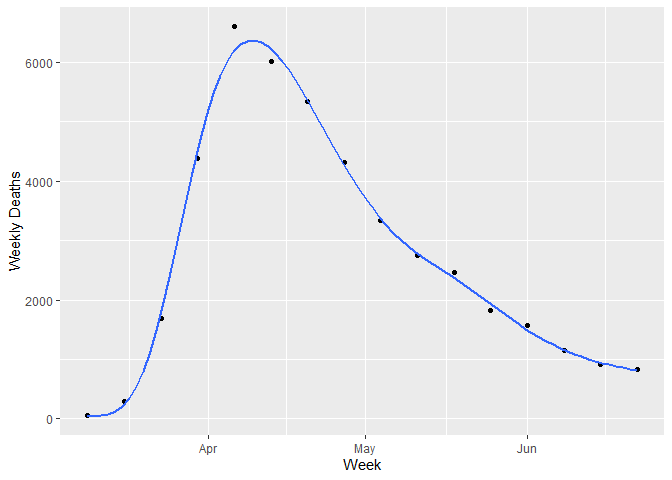
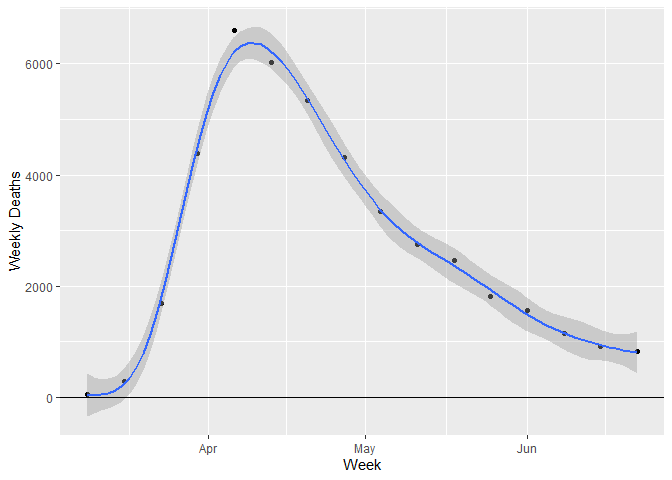
latest data

diff --git a/README.md b/README.md
@@ -2,7 +2,7 @@ Using ggplot2 to visualise Covid-19 deaths the UK
 ================
 Andi (<almost@gmail.com>,
 @[inductivestep](https://twitter.com/InductiveStep))
-02 July 2020
+03 July 2020
 
 This script shows how to use ggplot2, with the help of some other
 tidyverse tools, to plot UK Covid-19 deaths data.
@@ -228,7 +228,9 @@ Mon
 ### Plot
 
 First, plot number of deaths reported every day, colouring points by day
-of week.
+of week. I’ve also added straight lines between the points (it’s harder
+to spot the patterns without it) and a generalized additive model (GAM)
+smoother.
 
 ``` r
 death2 %>%
@@ -236,31 +238,23 @@ death2 %>%
              y = `UK Daily count of deaths in all settings`)) + 
   scale_colour_hue() + # Day of week is ordered; this uses a qual palette
   geom_line(color = "grey") +
-  geom_point(aes(color=`Day of week`))
+  geom_point(aes(color=`Day of week`)) +
+  geom_hline(yintercept=0) +
+  geom_smooth(method = "gam",
+              formula = y ~ s(x, bs = "cr"),
+              se = F,
+              col = "darkgrey")
 ```
 
 ![](README_files/figure-gfm/unnamed-chunk-7-1.png)<!-- -->
-
-We can also add separate lines for each day of the week like this:
-
-``` r
-death2 %>%
-  ggplot(aes(x = `Publicly confirmed as deceased as of 5pm this day`,
-             y = `UK Daily count of deaths in all settings`,
-             color = `Day of week`)) + 
-  geom_line() +
-  geom_point() +
-  scale_colour_hue() 
-```
-
-![](README_files/figure-gfm/unnamed-chunk-8-1.png)<!-- -->
 
 Deaths are reported when paperwork is filed, rather than time of death,
 which apparently explains the dips on Saturday and Sunday.
 
 ### Aggregrate by week
 
-One way to “smooth” the day-to-day variation in data is to sum by week:
+One way to “smooth” the day-to-day variation in data is to aggregate the
+numbers by week:
 
 ``` r
 death_week <- death2 %>%
@@ -269,8 +263,8 @@ death_week <- death2 %>%
             Days = n())
 ```
 
-Now plot, with a generalized additive model (GAM) smoother, selecting
-only weeks where there were data for all seven days.
+Now plot, with GAM smoother, selecting only weeks where there were data
+for all seven days.
 
 These week(s) are excluded:
 
@@ -344,13 +338,13 @@ Days
 
 <td style="text-align:right;">
 
-331
+557
 
 </td>
 
 <td style="text-align:right;">
 
-2
+4
 
 </td>
 
@@ -365,10 +359,11 @@ death_week %>%
   filter(Days == 7) %>%
   ggplot(aes(x = Week, y = `Weekly Deaths`)) +
   geom_point() +
-  geom_smooth(method = "gam", formula = y ~ s(x, bs = "tp"), se = F) 
+  geom_smooth(method = "gam", formula = y ~ s(x, bs = "cs"), se = T) +
+  geom_hline(yintercept=0) 
 ```
 
-![](README_files/figure-gfm/unnamed-chunk-11-1.png)<!-- -->
+![](README_files/figure-gfm/unnamed-chunk-10-1.png)<!-- -->
 
 ### Change by week
 
@@ -389,11 +384,11 @@ death_week %>%
   ggplot(aes(x = Week, y = Change)) +
   geom_point() +
   geom_hline(yintercept=0) +
-  geom_smooth(method = "gam", formula = y ~ s(x, bs = "cs"), se = F) +
+  geom_smooth(method = "gam", formula = y ~ s(x, bs = "cs"), se = T) +
   ylab("Change in number of deaths since previous week")
 ```
 
-![](README_files/figure-gfm/unnamed-chunk-13-1.png)<!-- -->
+![](README_files/figure-gfm/unnamed-chunk-12-1.png)<!-- -->
 
 ## ONS data
 
@@ -426,7 +421,7 @@ download.file("https://www.ons.gov.uk/visualisations/dvc875a/fig1/datadownload.x
               mode = "wb")
 ```
 
-This read the file, skipping over the preamble and remove the footer.
+This reads the file, skipping over the preamble and removing the footer.
 
 ``` r
 ons_dat <- read_xlsx(localExcelTemp, skip = 6) %>%
@@ -580,14 +575,17 @@ COVID-19
 
 </table>
 
-### Plot\!
+### Plot
 
 ``` r
 ons_dat %>%
   ggplot(aes(x = `Week ending`, y = `COVID-19`)) +
   geom_point() +
   ylab("Deaths due to Covid-19") +
-  geom_smooth(method = "gam", formula = y ~ s(x, bs = "ds"), se = F)  
+  geom_smooth(method = "gam",
+              formula = y ~ s(x, bs = "cr"),
+              se = T) +
+  geom_hline(yintercept=0)
 ```
 
-![](README_files/figure-gfm/unnamed-chunk-21-1.png)<!-- -->
+![](README_files/figure-gfm/unnamed-chunk-20-1.png)<!-- -->
